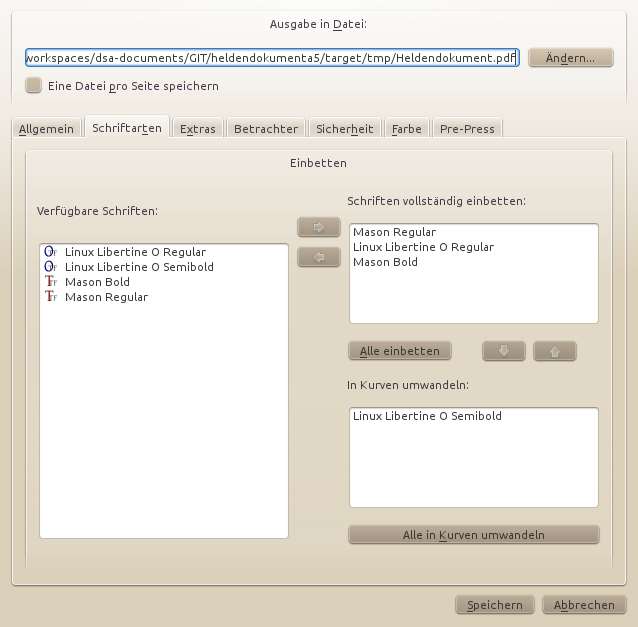
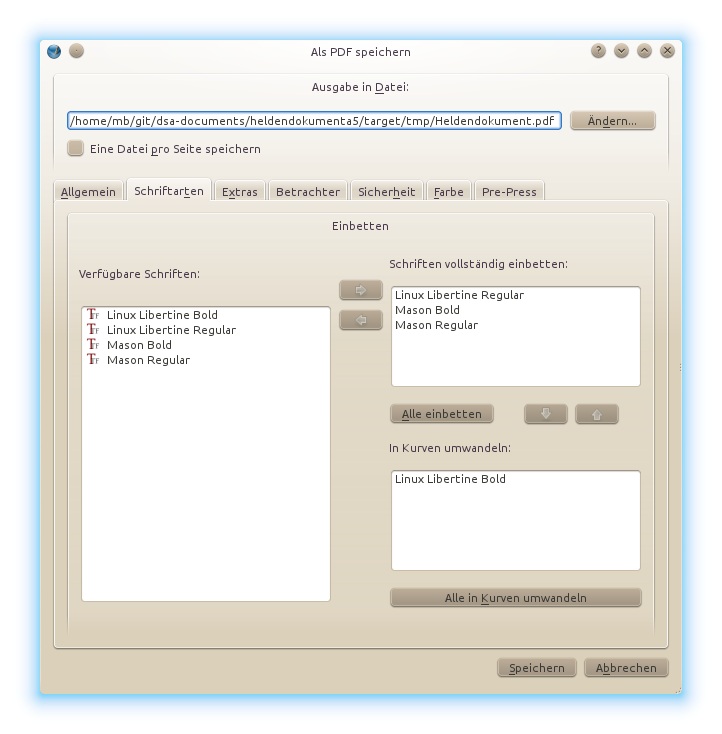
Creating site for dsa-documents, 1.0.1

diff --git a/scribus.html b/scribus.html
@@ -1,14 +1,14 @@
 
 <!DOCTYPE html>
 <!--
- Generated by Apache Maven Doxia at 2013-12-07
+ Generated by Apache Maven Doxia at 2014-01-04
  Rendered using Maven Reflow Skin 1.0.0 (http://andriusvelykis.github.com/reflow-maven-skin)
 -->
 <html  xml:lang="de" lang="de">
 
 	<head>
 		<meta charset="UTF-8" />
-		<title>Scribus | DSA Heldendokument A5</title>
+		<title>Scribus | DSA Dokumente</title>
 		<meta name="viewport" content="width=device-width, initial-scale=1.0" />
 		<meta name="description" content="" />
 		<meta http-equiv="content-language" content="de" />
@@ -101,6 +101,7 @@
 				<div id="toc-scroll-target" class="container">
 					<ul id="toc" class="nav">
 						<li class="toplevel"><a href="#scribus" title="Scribus">Scribus</a></li>
+						<li class="toplevel"><a href="#Schriften" title="Schriften">Schriften</a></li>
 						<li class="toplevel"><a href="#Skripte" title="Skripte">Skripte</a></li>
 						<li class="dropdown">
 							<a href="#PDF_Export" title="PDF Export" class="dropdown-toggle" role="button" data-toggle="dropdown" data-target="#">PDF Export <b class="caret"></b></a>
@@ -135,6 +136,15 @@
 </div> 
 <p>Das Dokument selbst wird in Scribus erstellt und dort als PDF exportiert. </p> 
 <div class="section"> 
+ <div class="section"> 
+  <h3 id="Schriften">Schriften</h3> 
+  <p>Es m&uuml;ssen zwingend TrueType (TTF) Schriften verwendet werden. Die Linux Libertine OpenType Schriften werden vom Acrobat Reader XI nicht korrekt verarbeitet. Der Acrobat Reader kann ein ge&auml;ndertes PDF Formular speichern. Dies schl&auml;gt bei OpenType Schriften fehl, da ein erneutes &Ouml;ffnen des PDFs zu der Fehlermeldung “Cannot extract the embedded font ‘LinLibertineO’. Some characters may not Display or print correctly.” f&uuml;hrt. </p> 
+  <p>Genutzte Schriftarten:</p> 
+  <ul> 
+   <li>Mason Regular &amp; Bold</li> 
+   <li>Linux Libertine Regular &amp; Bold: <a class="externalLink" href="http://www.linuxlibertine.org">Linux Libertine Webseite</a></li> 
+  </ul> 
+ </div> 
  <div class="section"> 
   <h3 id="Skripte">Skripte</h3> 
   <p>F&uuml;r Skribus stehen ein paar Skripte zur Verf&uuml;gung, die das Entwickeln einfacher machen.</p> 
@@ -191,12 +201,12 @@
      <li>alle vollst&auml;ndig einbetten; insbesondere: 
       <ul> 
        <li>Mason Regular</li> 
-       <li>Linux Libertine O Regular</li> 
+       <li>Linux Libertine Regular</li> 
        <li>Mason Bold</li> 
       </ul></li> 
      <li>in Kurven umwandeln: 
       <ul> 
-       <li>Linux Libertine O Semibold</li> 
+       <li>Linux Libertine Bold</li> 
       </ul></li> 
     </ul> 
     <p><img src="images/scribus/schriftarten.png" alt="Schriftarten" /></p> 
@@ -281,8 +291,8 @@
 		<div class="row">
 			<div class="span12">
 				<p class="pull-right"><a href="#">Back to top</a></p>
-				<p class="copyright">Copyright &copy;2013 <a href="http://www.thinkingstone.de">Michael Binder</a>. All Rights Reserved.</p>
-				<p class="version-date"><span class="projectVersion">Version: 1.0.0. </span><span class="publishDate">Zuletzt Publiziert: 2013-12-07. </span></p>
+				<p class="copyright">Copyright &copy;2014 <a href="http://www.thinkingstone.de">Michael Binder</a>. All Rights Reserved.</p>
+				<p class="version-date"><span class="projectVersion">Version: 1.0.1-SNAPSHOT. </span><span class="publishDate">Zuletzt Publiziert: 2014-01-04. </span></p>
 			</div>
 		</div>
 	</div>

diff --git a/develop.html b/develop.html
@@ -1,14 +1,14 @@
 
 <!DOCTYPE html>
 <!--
- Generated by Apache Maven Doxia at 2013-12-07
+ Generated by Apache Maven Doxia at 2014-01-05
  Rendered using Maven Reflow Skin 1.0.0 (http://andriusvelykis.github.com/reflow-maven-skin)
 -->
 <html  xml:lang="de" lang="de">
 
 	<head>
 		<meta charset="UTF-8" />
-		<title>Hinweise zur Entwicklung | DSA Heldendokument A5</title>
+		<title>Hinweise zur Entwicklung | DSA Dokumente</title>
 		<meta name="viewport" content="width=device-width, initial-scale=1.0" />
 		<meta name="description" content="" />
 		<meta http-equiv="content-language" content="de" />
@@ -146,6 +146,7 @@
   <li><a class="externalLink" href="https://maven.apache.org/">Maven</a> 3.0.4</li> 
   <li><a class="externalLink" href="http://git-scm.com/">Git</a> 1.7.9.5</li> 
   <li><a class="externalLink" href="http://www.imagemagick.org">Imagemagick</a> 6.6.9 f&uuml;r die Thumbnails</li> 
+  <li><a class="externalLink" href="http://partners.adobe.com/public/developer/en/xml/XFDF_Spec_3.0.pdf">XFDF Format Spec</a></li> 
  </ul> 
  <hr /> 
 </div> 
@@ -273,8 +274,8 @@
 		<div class="row">
 			<div class="span12">
 				<p class="pull-right"><a href="#">Back to top</a></p>
-				<p class="copyright">Copyright &copy;2013 <a href="http://www.thinkingstone.de">Michael Binder</a>. All Rights Reserved.</p>
-				<p class="version-date"><span class="projectVersion">Version: 1.0.0. </span><span class="publishDate">Zuletzt Publiziert: 2013-12-07. </span></p>
+				<p class="copyright">Copyright &copy;2014 <a href="http://www.thinkingstone.de">Michael Binder</a>. All Rights Reserved.</p>
+				<p class="version-date"><span class="projectVersion">Version: 1.0.1-SNAPSHOT. </span><span class="publishDate">Zuletzt Publiziert: 2014-01-05. </span></p>
 			</div>
 		</div>
 	</div>

diff --git a/project-info.html b/project-info.html
@@ -1,14 +1,14 @@
 
 <!DOCTYPE html>
 <!--
- Generated by Apache Maven Doxia at 2013-12-07
+ Generated by Apache Maven Doxia at 2014-01-05
  Rendered using Maven Reflow Skin 1.0.0 (http://andriusvelykis.github.com/reflow-maven-skin)
 -->
 <html  xml:lang="de" lang="de">
 
 	<head>
 		<meta charset="UTF-8" />
-		<title>Allgemeine Projektinformation | DSA Heldendokument A5</title>
+		<title>Allgemeine Projektinformation | DSA Dokumente</title>
 		<meta name="viewport" content="width=device-width, initial-scale=1.0" />
 		<meta name="description" content="" />
 		<meta http-equiv="content-language" content="de" />
@@ -205,8 +205,8 @@
 		<div class="row">
 			<div class="span12">
 				<p class="pull-right"><a href="#">Back to top</a></p>
-				<p class="copyright">Copyright &copy;2013 <a href="http://www.thinkingstone.de">Michael Binder</a>. All Rights Reserved.</p>
-				<p class="version-date"><span class="projectVersion">Version: 1.0.0. </span><span class="publishDate">Zuletzt Publiziert: 2013-12-07. </span></p>
+				<p class="copyright">Copyright &copy;2014 <a href="http://www.thinkingstone.de">Michael Binder</a>. All Rights Reserved.</p>
+				<p class="version-date"><span class="projectVersion">Version: 1.0.1. </span><span class="publishDate">Zuletzt Publiziert: 2014-01-05. </span></p>
 			</div>
 		</div>
 	</div>

diff --git a/team-list.html b/team-list.html
@@ -1,14 +1,14 @@
 
 <!DOCTYPE html>
 <!--
- Generated by Apache Maven Doxia at 2013-12-07
+ Generated by Apache Maven Doxia at 2014-01-05
  Rendered using Maven Reflow Skin 1.0.0 (http://andriusvelykis.github.com/reflow-maven-skin)
 -->
 <html  xml:lang="de" lang="de">
 
 	<head>
 		<meta charset="UTF-8" />
-		<title>Projektteam | DSA Heldendokument A5</title>
+		<title>Projektteam | DSA Dokumente</title>
 		<meta name="viewport" content="width=device-width, initial-scale=1.0" />
 		<meta name="description" content="" />
 		<meta http-equiv="content-language" content="de" />
@@ -233,8 +233,8 @@ window.onLoad = init();
 		<div class="row">
 			<div class="span12">
 				<p class="pull-right"><a href="#">Back to top</a></p>
-				<p class="copyright">Copyright &copy;2013 <a href="http://www.thinkingstone.de">Michael Binder</a>. All Rights Reserved.</p>
-				<p class="version-date"><span class="projectVersion">Version: 1.0.0. </span><span class="publishDate">Zuletzt Publiziert: 2013-12-07. </span></p>
+				<p class="copyright">Copyright &copy;2014 <a href="http://www.thinkingstone.de">Michael Binder</a>. All Rights Reserved.</p>
+				<p class="version-date"><span class="projectVersion">Version: 1.0.1. </span><span class="publishDate">Zuletzt Publiziert: 2014-01-05. </span></p>
 			</div>
 		</div>
 	</div>

diff --git a/contribute.html b/contribute.html
@@ -1,14 +1,14 @@
 
 <!DOCTYPE html>
 <!--
- Generated by Apache Maven Doxia at 2013-12-07
+ Generated by Apache Maven Doxia at 2013-12-24
  Rendered using Maven Reflow Skin 1.0.0 (http://andriusvelykis.github.com/reflow-maven-skin)
 -->
 <html  xml:lang="de" lang="de">
 
 	<head>
 		<meta charset="UTF-8" />
-		<title>Mitarbeiten | DSA Heldendokument A5</title>
+		<title>Mitarbeiten | DSA Dokumente</title>
 		<meta name="viewport" content="width=device-width, initial-scale=1.0" />
 		<meta name="description" content="" />
 		<meta http-equiv="content-language" content="de" />
@@ -201,7 +201,7 @@
 			<div class="span12">
 				<p class="pull-right"><a href="#">Back to top</a></p>
 				<p class="copyright">Copyright &copy;2013 <a href="http://www.thinkingstone.de">Michael Binder</a>. All Rights Reserved.</p>
-				<p class="version-date"><span class="projectVersion">Version: 1.0.0. </span><span class="publishDate">Zuletzt Publiziert: 2013-12-07. </span></p>
+				<p class="version-date"><span class="projectVersion">Version: 1.0.1-SNAPSHOT. </span><span class="publishDate">Zuletzt Publiziert: 2013-12-24. </span></p>
 			</div>
 		</div>
 	</div>

diff --git a/index.html b/index.html
@@ -1,14 +1,14 @@
 
 <!DOCTYPE html>
 <!--
- Generated by Apache Maven Doxia at 2013-12-07
+ Generated by Apache Maven Doxia at 2013-12-24
  Rendered using Maven Reflow Skin 1.0.0 (http://andriusvelykis.github.com/reflow-maven-skin)
 -->
 <html  xml:lang="de" lang="de">
 
 	<head>
 		<meta charset="UTF-8" />
-		<title>Übersicht | DSA Heldendokument A5</title>
+		<title>Übersicht | DSA Dokumente</title>
 		<meta name="viewport" content="width=device-width, initial-scale=1.0" />
 		<meta name="description" content="" />
 		<meta http-equiv="content-language" content="de" />
@@ -197,7 +197,7 @@
 			<div class="span12">
 				<p class="pull-right"><a href="#">Back to top</a></p>
 				<p class="copyright">Copyright &copy;2013 <a href="http://www.thinkingstone.de">Michael Binder</a>. All Rights Reserved.</p>
-				<p class="version-date"><span class="projectVersion">Version: 1.0.0. </span><span class="publishDate">Zuletzt Publiziert: 2013-12-07. </span></p>
+				<p class="version-date"><span class="projectVersion">Version: 1.0.1-SNAPSHOT. </span><span class="publishDate">Zuletzt Publiziert: 2013-12-24. </span></p>
 			</div>
 		</div>
 	</div>
